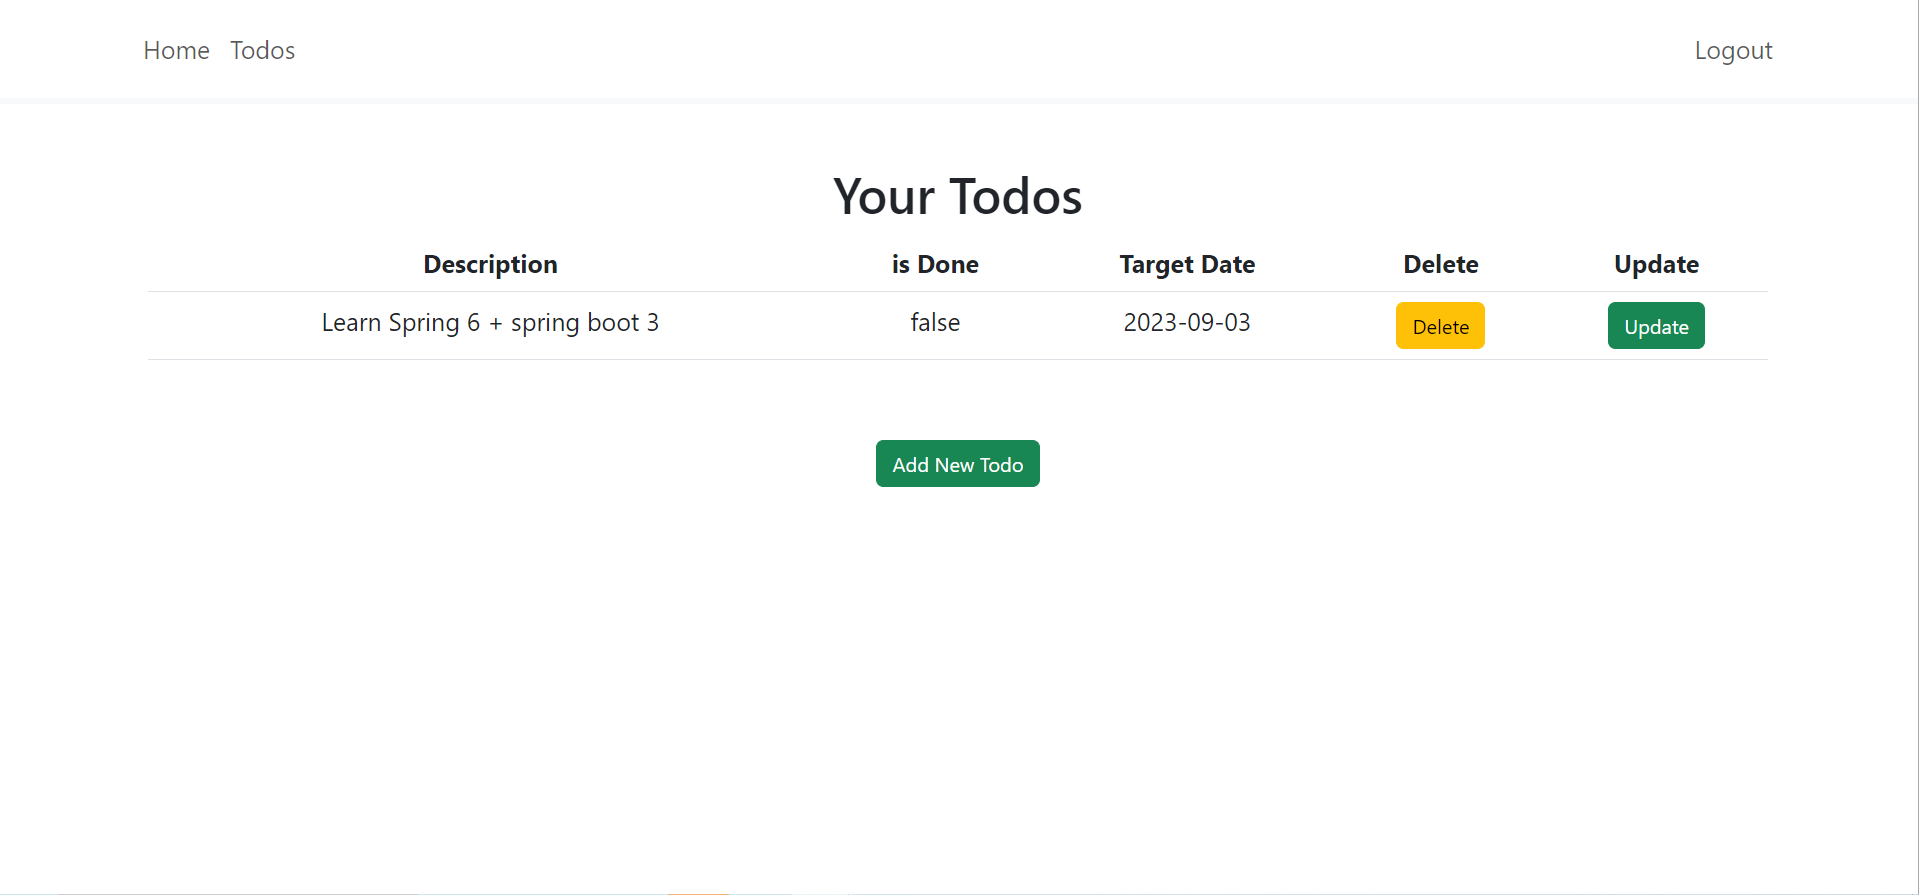
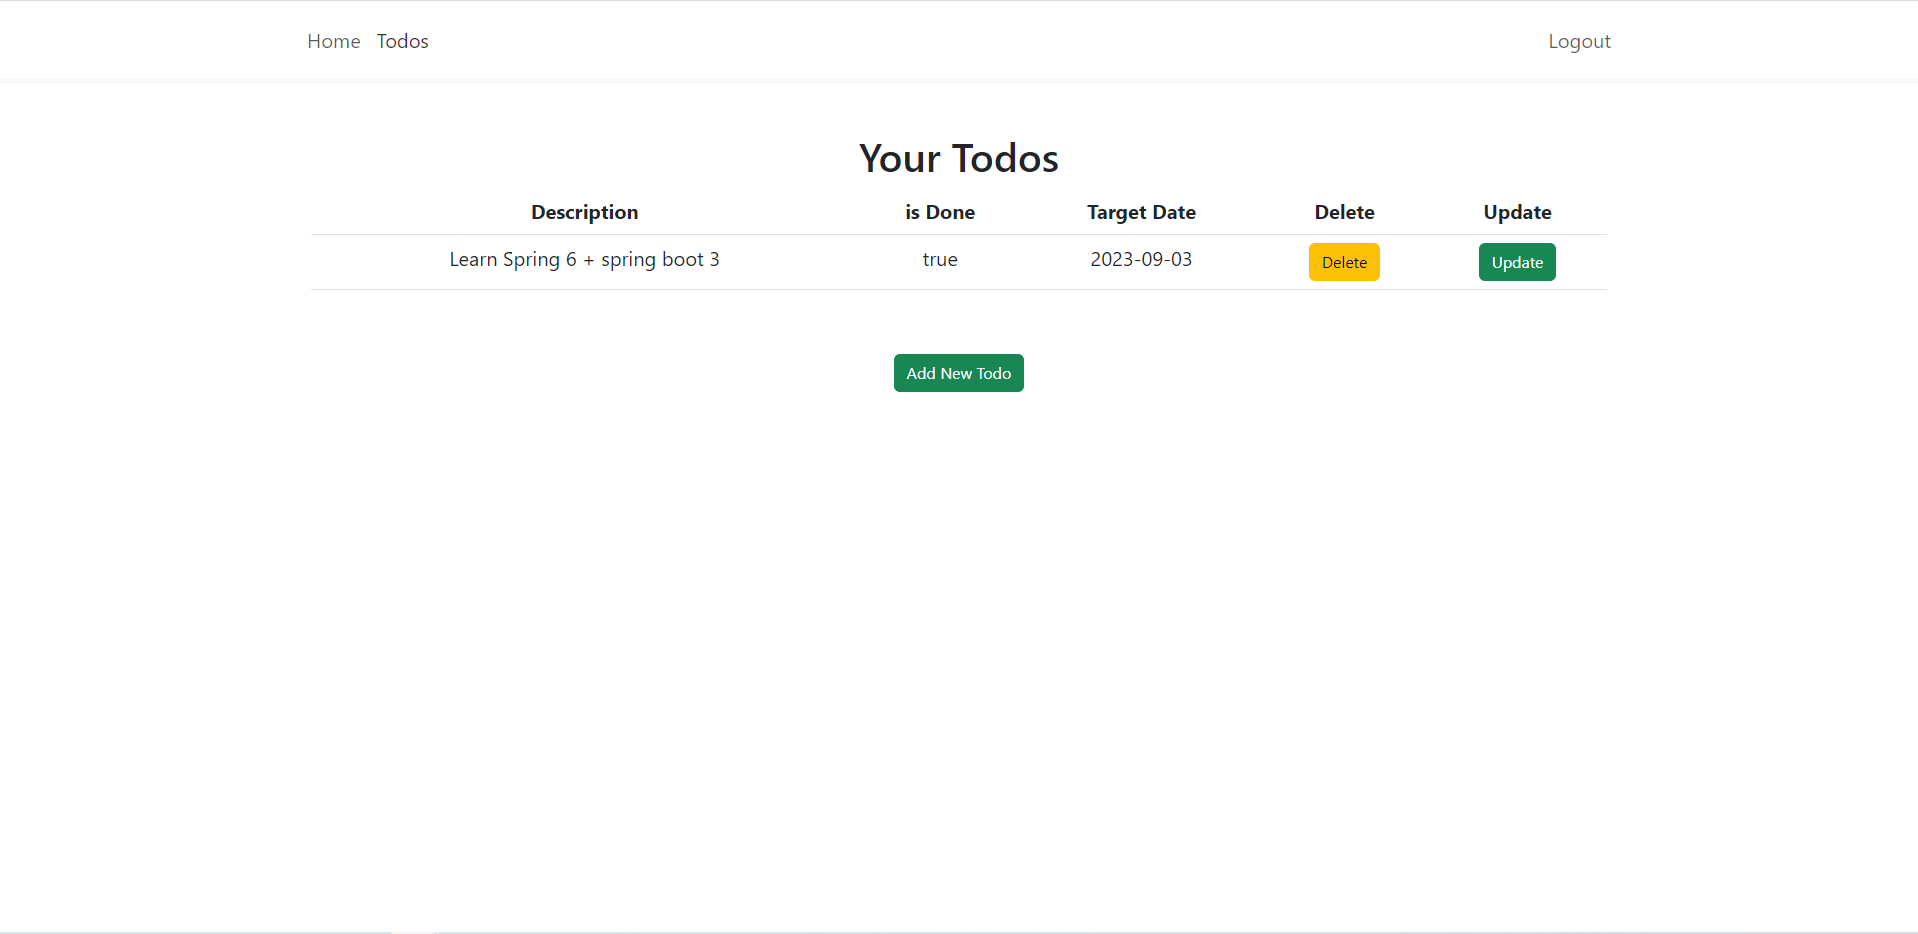
checkbox added
checkbox + logic added for reflecting the completed status of outstanding todos.

diff --git a/Frontend/todos-app/src/components/todo/TodoComponent.jsx b/Frontend/todos-app/src/components/todo/TodoComponent.jsx
@@ -2,7 +2,7 @@ import { useNavigate, useParams } from "react-router-dom"
 import { retrieveTodoApi, updateTodoApi, addTodoApi } from "./api/TodoApiService"
 import { useAuth } from "./security/AuthContext"
 import { useEffect, useState } from "react"
-import { Field, Formik,Form, ErrorMessage } from "formik"
+import { Field, Formik, Form, ErrorMessage } from "formik"
 import moment from 'moment'
 
 
@@ -17,6 +17,7 @@ export default function TodoComponent() {
     const [description, setDescription] = useState(null)
     const [creationDate, setCreationDate] = useState(null)
     const [targetDate, setTargetDate] = useState(null)
+    const [isCompleted, setIsCompleted] = useState(false)
 
     useEffect(() => {
         retrieveTodos()
@@ -24,38 +25,38 @@ export default function TodoComponent() {
 
     function retrieveTodos() {
 
-        if(id !== -1){
+        if (id !== -1) {
             retrieveTodoApi(authContext.username, id)
-            .then(response => {
-                setDescription(response.data.description)
-                setCreationDate(response.data.creationDate)
-                setTargetDate(response.data.targetDate)
-            })
-            .catch(error => console.log(error))
-            .finally(console.log('cleanup'))
+                .then(response => {
+                    setDescription(response.data.description)
+                    setCreationDate(response.data.creationDate)
+                    setTargetDate(response.data.targetDate)
+                    setIsCompleted(response.data.isCompleted)
+                })
+                .catch(error => console.log(error))
+                .finally(console.log('cleanup'))
         }
-        
+
     }
 
-    function onSubmit(values){
+    function onSubmit(values) {
         console.log(targetDate)
         const todo = {
             id: id,
             username: authContext.username,
             description: values.description,
             //creationDate: today.getFullYear() + '-' + (today.getMonth() + 1) + '-' + today.getDate(),
-            targetDate: values.targetDate
+            targetDate: values.targetDate,
+            isCompleted: values.isCompleted
         }
-        
-        console.log(todo.creationDate)
-        
-        if(id === -1){
+
+        if (id === -1) {
             addTodoApi(authContext.username, todo)
-            .then(response => {
-                console.log(response)
-                navigate('/todos')
-            })
-            .catch(error => console.log(error))
+                .then(response => {
+                    console.log(response)
+                    navigate('/todos')
+                })
+                .catch(error => console.log(error))
         } else {
             updateTodoApi(authContext.username, id, todo)
                 .then(response => {
@@ -64,14 +65,14 @@ export default function TodoComponent() {
                 })
                 .catch(error => console.log(error))
         }
-        
+
 
     }
 
-    function validate(values){
+    function validate(values) {
         let errors = {}
 
-        if(values.description.length < 5 || values.description.length === null){
+        if (values.description.length < 5 || values.description.length === null) {
             errors.description = 'Enter a valid description'
         }
 
@@ -86,8 +87,8 @@ export default function TodoComponent() {
         <div className="container">
             <h1>Enter todo Details</h1>
             <div>
-                <Formik initialValues={ { description, targetDate } } 
-                    enableReinitialize={true} 
+                <Formik initialValues={{ description, targetDate, isCompleted }}
+                    enableReinitialize={true}
                     onSubmit={onSubmit}
                     validate={validate}
                     validateOnChange={false}
@@ -95,25 +96,30 @@ export default function TodoComponent() {
                     {
                         (props) => (
                             <Form>
-                                <ErrorMessage 
-                                name='description'
-                                component='div'
-                                className="alert alert-warning" />
+                                <ErrorMessage
+                                    name='description'
+                                    component='div'
+                                    className="alert alert-warning" />
 
-                                <ErrorMessage 
-                                name='targetDate'
-                                component='div'
-                                className="alert alert-warning" />
+                                <ErrorMessage
+                                    name='targetDate'
+                                    component='div'
+                                    className="alert alert-warning" />
 
                                 <fieldset className="form-group">
                                     <label>Description</label>
-                                    <Field type="text" className='form-control' name='description'/>
+                                    <Field type="text" className='form-control' name='description' />
                                 </fieldset>
 
                                 <fieldset className="form-group">
                                     <label>Target Date</label>
-                                    <Field type="date" className='form-control' name='targetDate'/>
+                                    <Field type="date" className='form-control' name='targetDate' />
                                 </fieldset>
+                                {(id > 0) && 
+                                <fieldset>
+                                    <label>Done</label>
+                                    <Field type="checkbox" name="isCompleted" />
+                                </fieldset>}
 
                                 <div>
                                     <button className="btn btn-success m-5" type='submit' >Save</button>
